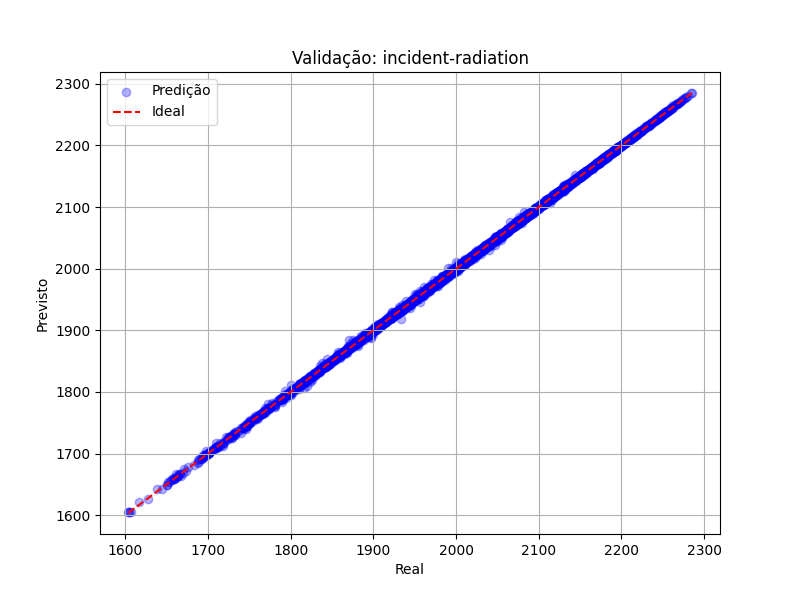
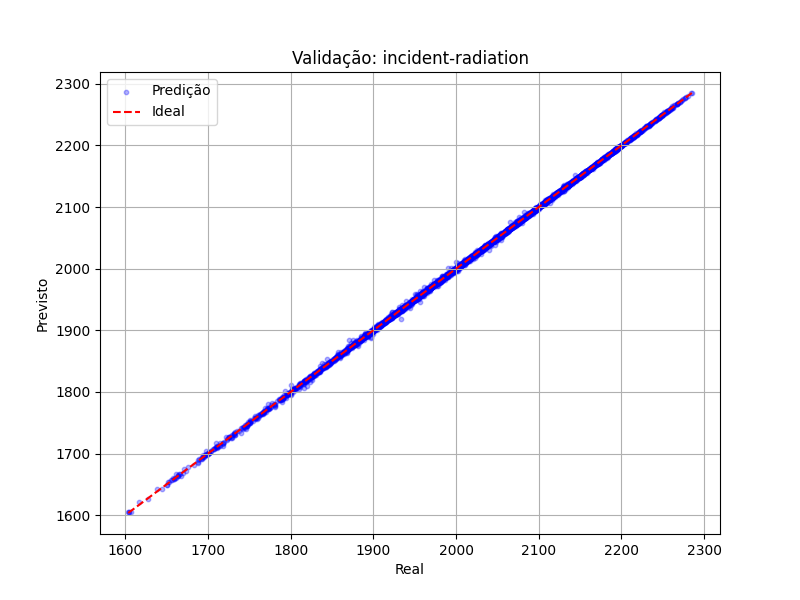
atualizacao plotagem / rodada exp15_L2_0001

diff --git a/utils/plot_analise_exp15.py b/utils/plot_analise_exp15.py
@@ -19,7 +19,7 @@
 # targets = ['pressure', 'x-velocity', 'y-velocity', 'z-velocity', 'temperature',
 #            'incident-radiation', 'radiation-temperature', 'rad-heat-flux', 'vr']
 
-# pasta_saida = "graficos_analise_exp15"
+# pasta_saida = "graficos/1_variavel_exp15"
 # os.makedirs(pasta_saida, exist_ok=True)
 
 # print(f"Gerando gráficos na pasta '{pasta_saida}'...")
@@ -30,7 +30,7 @@
 #     reais = yval[:, i]
 #     previstos = pred_val[:, i]
     
-#     plt.scatter(reais, previstos, alpha=0.3, color='blue', label='Predição')
+#     plt.scatter(reais, previstos, alpha=0.3, color='blue', label='Predição', s=10)
     
 #     min_val = min(reais.min(), previstos.min())
 #     max_val = max(reais.max(), previstos.max())
@@ -60,11 +60,12 @@ xval, yval = dados['xval'], dados['yval']
 model = load_model(modelo_path)
 pred_val = model.predict(xval)
 
-# Índices no seu array: 0 = pressure, 1 = x-velocity
+# targets = ['pressure', 'x-velocity', 'y-velocity', 'z-velocity', 'temperature',
+#            'incident-radiation', 'radiation-temperature', 'rad-heat-flux', 'vr']
 idx_var1 = 0 
-idx_var2 = 4 
+idx_var2 = 8 
 nome_var1 = 'Pressão'
-nome_var2 = 'Temperatura'
+nome_var2 = 'vr'
 
 pasta_saida = "graficos/2_variavel_exp15"
 os.makedirs(pasta_saida, exist_ok=True)
@@ -84,7 +85,7 @@ plt.ylabel(nome_var2)
 plt.legend()
 plt.grid(True)
 
-caminho_imagem = os.path.join(pasta_saida, f"relacao_{idx_var1}_vs_{idx_var2}.png")
+caminho_imagem = os.path.join(pasta_saida, f"relacao_{nome_var1}_vs_{nome_var2}.png")
 plt.savefig(caminho_imagem)
 plt.close()
 

diff --git a/utils/plot_regiao_dif.py b/utils/plot_regiao_dif.py
@@ -6,7 +6,7 @@ from tensorflow.keras.models import load_model
 # 1. Caminho do modelo já treinado
 modelo_path = "result_fase5/exp15/exp15_fold14.keras"
 
-DATAFILE_NOVA_REGIAO = "dados_filtrados/pandas_regioes/transform-motorist-left-foot_cellcenter.pandas" 
+DATAFILE_NOVA_REGIAO = "dados_filtrados/pandas_regioes/transform-fp-head_cellcenter.pandas" 
 
 print(f"Carregando dados da nova região: {DATAFILE_NOVA_REGIAO}")
 dados = pd.read_pickle(DATAFILE_NOVA_REGIAO)  
